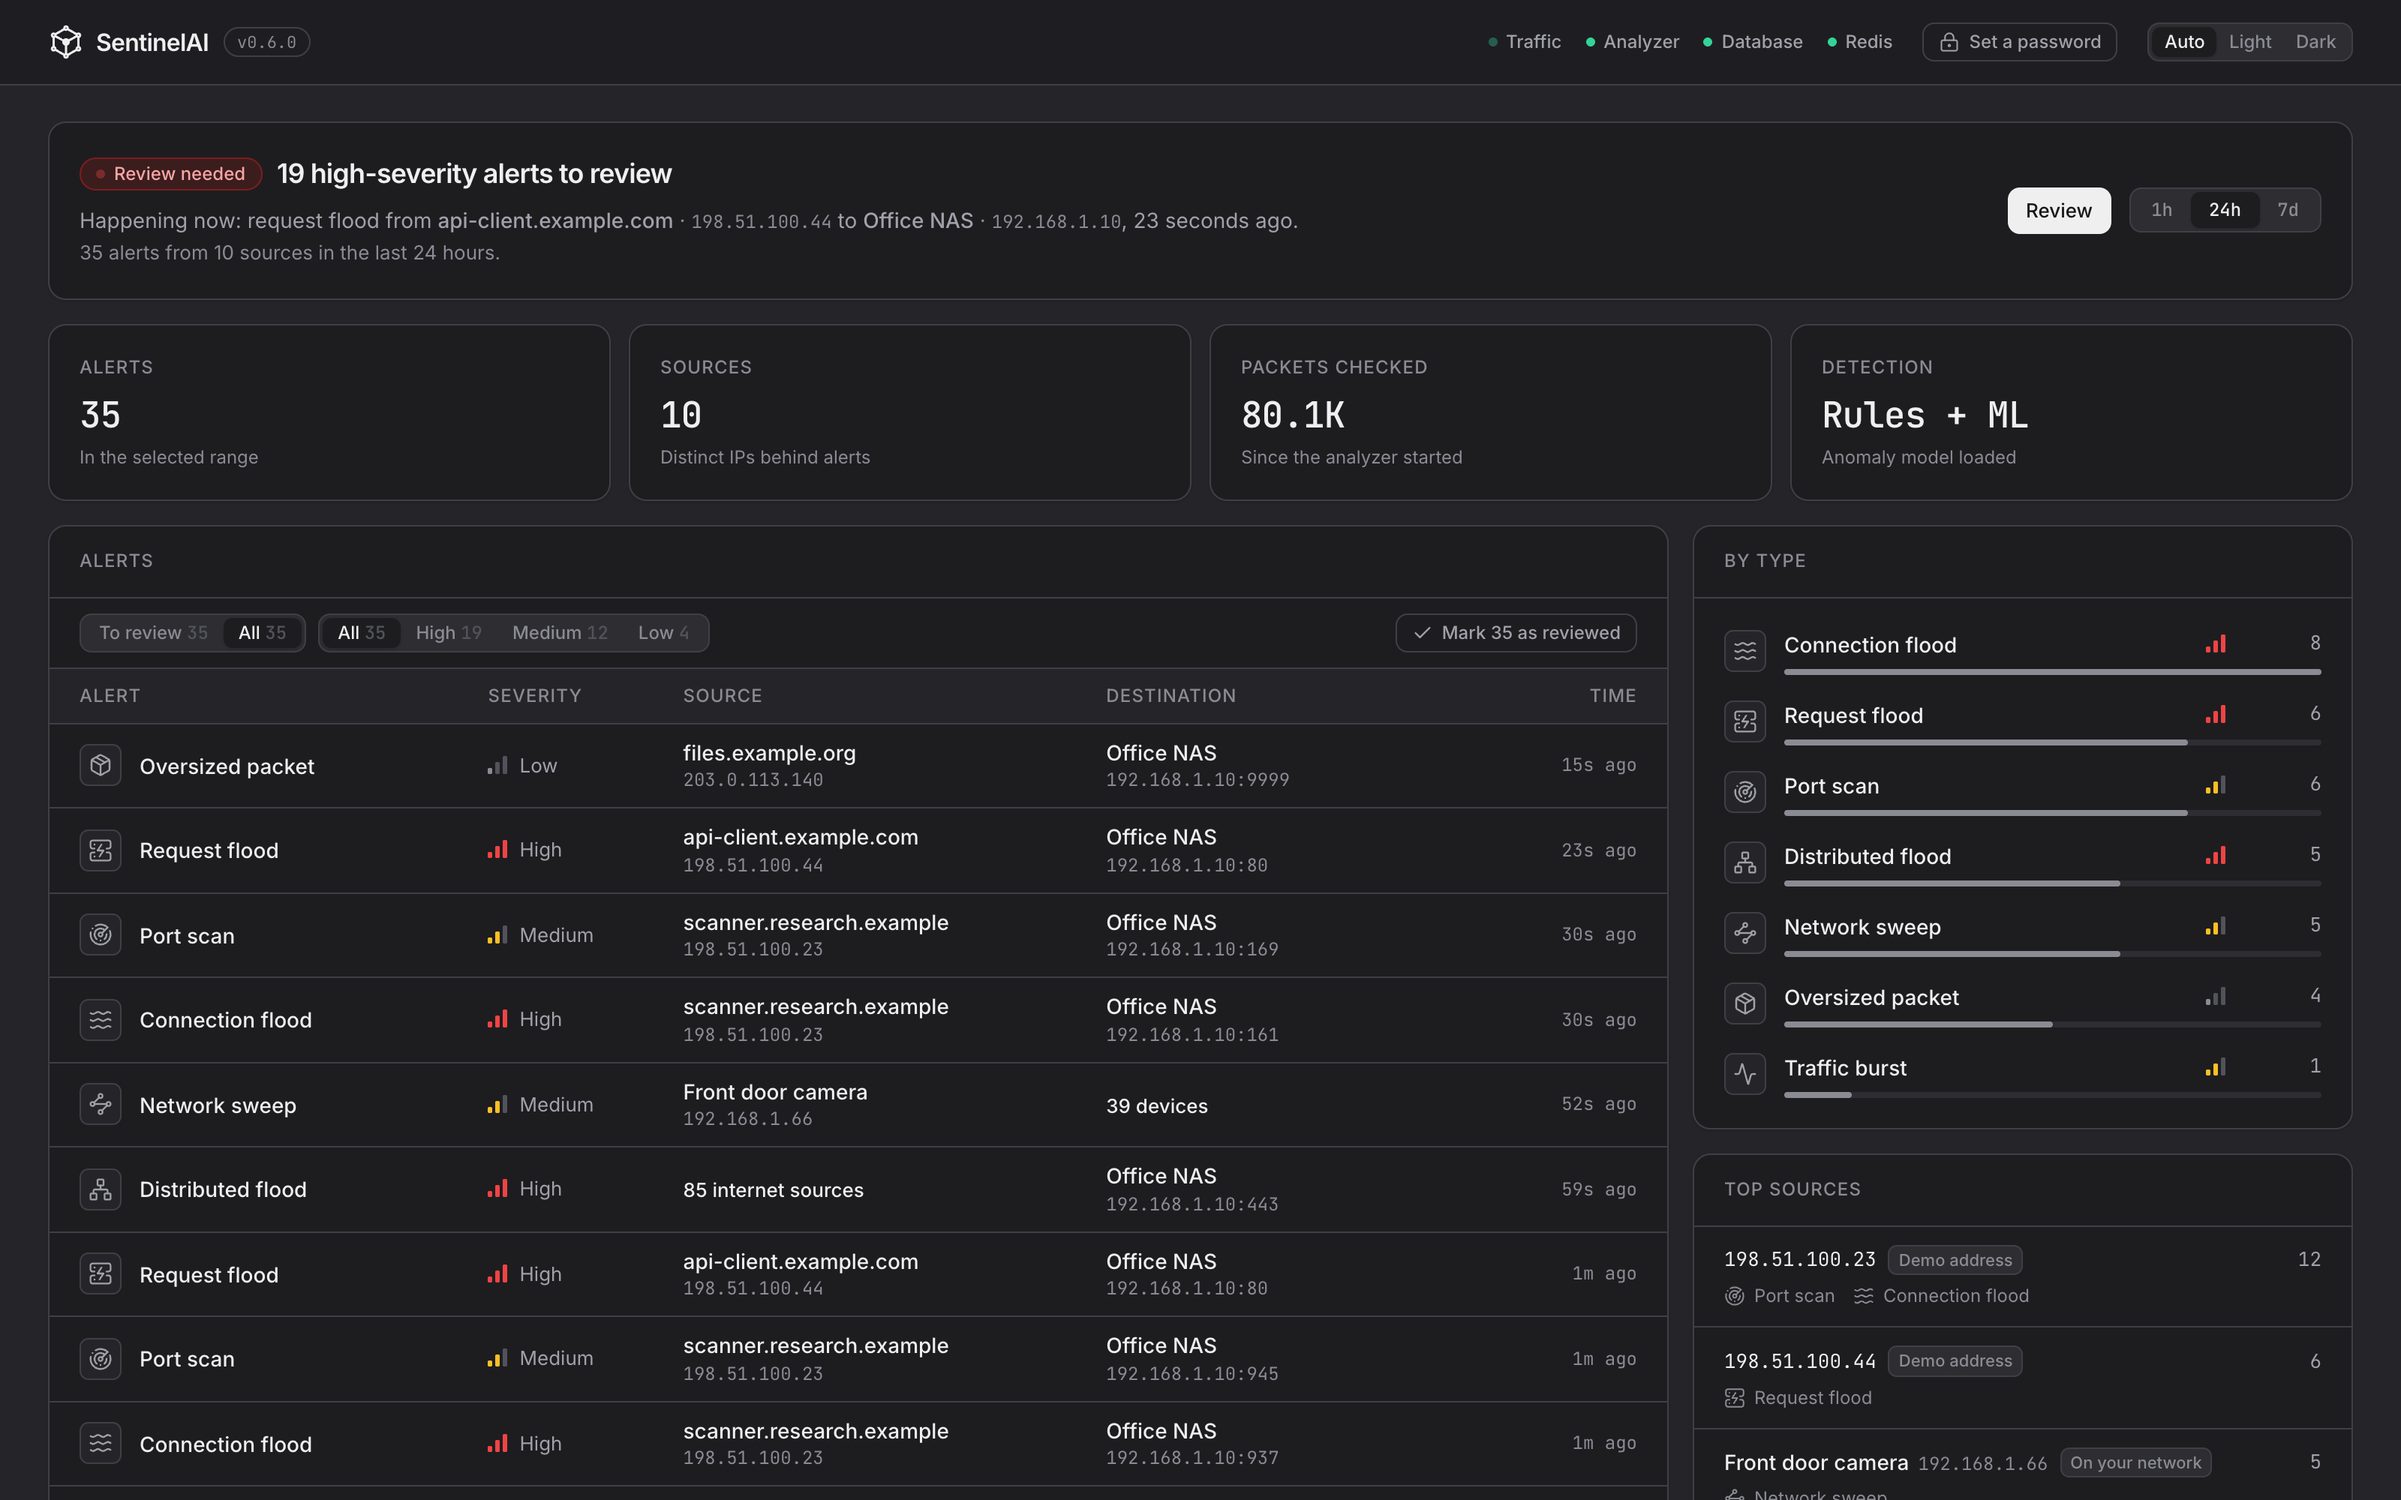
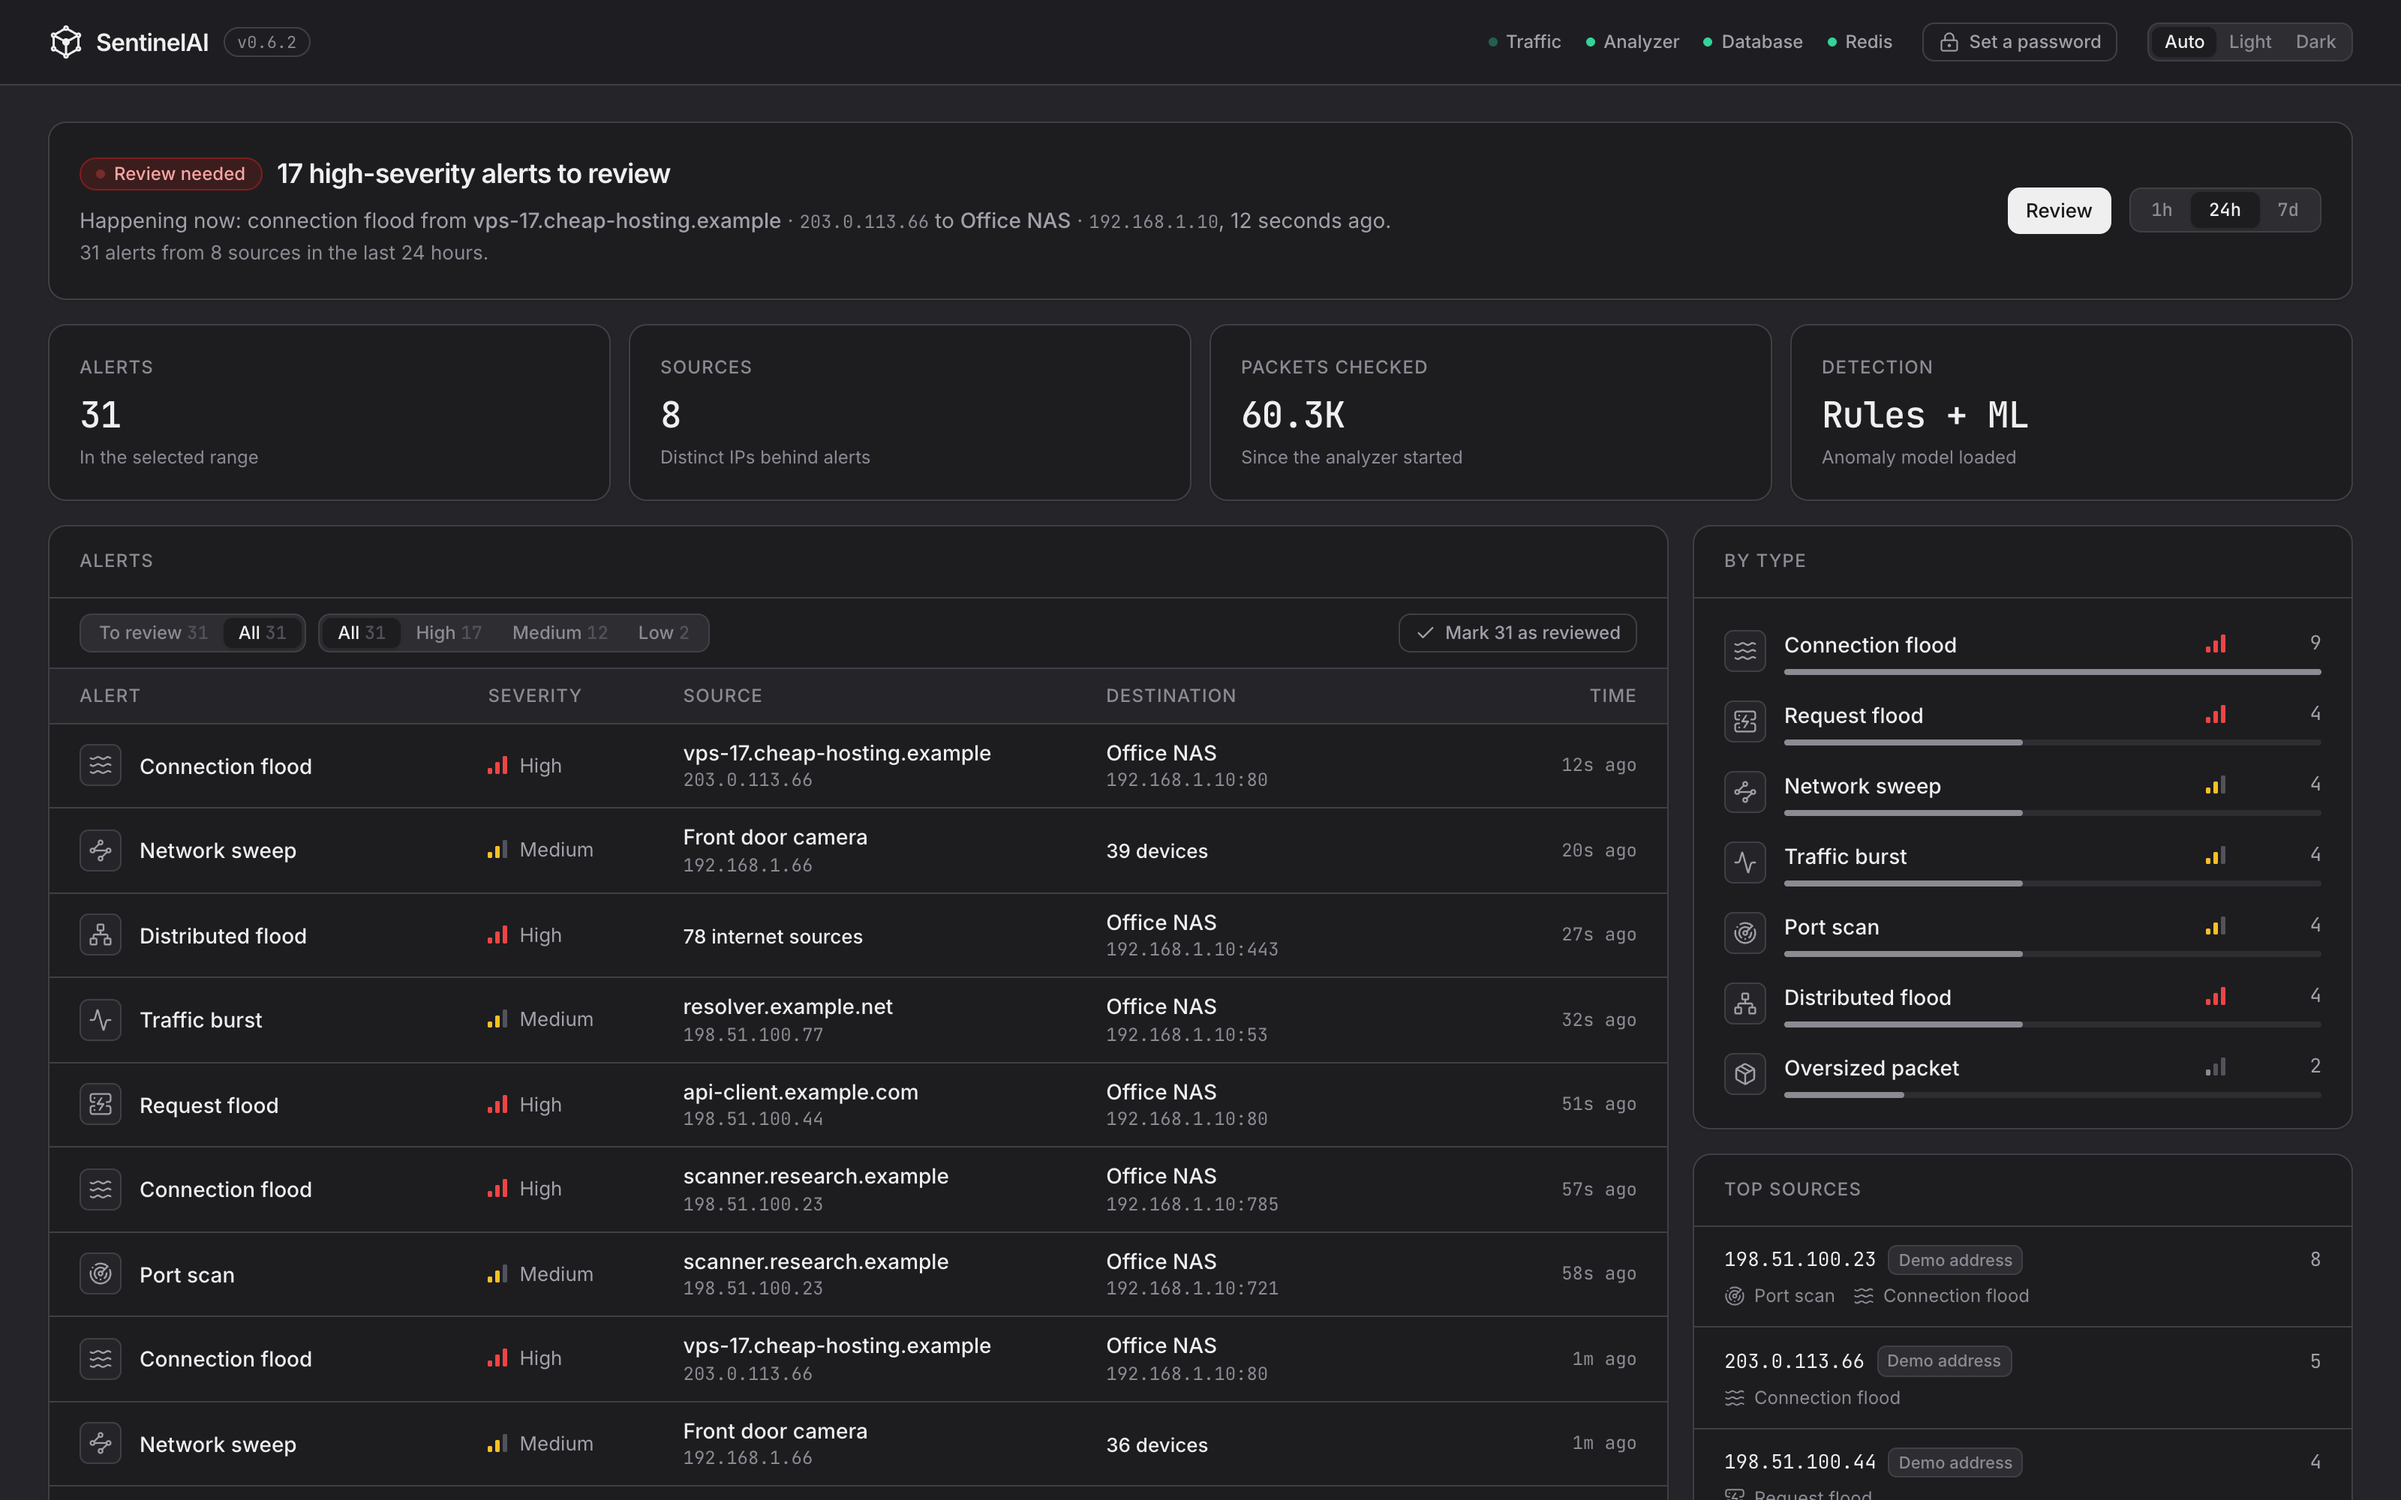
Release 0.6.2 (#25)

diff --git a/website/data/site.ts b/website/data/site.ts
@@ -12,7 +12,7 @@
 
 export const site = {
   name: "SentinelAI",
-  version: "0.6.1",
+  version: "0.6.2",
   repo: "https://github.com/smngvlkz/sentinel",
   evaluationDoc: "https://github.com/smngvlkz/sentinel/blob/master/docs/evaluation.md",
   roadmapDoc: "https://github.com/smngvlkz/sentinel/blob/master/docs/ROADMAP.md",
@@ -52,14 +52,14 @@ export const days: Day[] = [
     tag: "Thresholds tuned on this day",
     summary: "A port scan, an HTTP flood and a botnet, in 9.9 million packets.",
     rows: [
-      { attack: "Port scan", flows: "158,924", caught: "99.7%", minutes: "13 of 26" },
+      { attack: "Port scan", flows: "158,924", caught: "99.7%", minutes: "12 of 26" },
       { attack: "DDoS (HTTP flood)", flows: "128,027", caught: "99.9%", minutes: "21 of 21" },
       { attack: "Botnet (Ares)", flows: "1,966", caught: "23.9%", minutes: "387 of 592" },
     ],
     normal: [
-      { label: "Normal flows wrongly flagged, check-in rule aside", value: "22 of 380,557" },
+      { label: "Normal flows wrongly flagged, check-in rule aside", value: "0 of 380,557" },
       { label: "Flagged by the check-in rule (one polling server)", value: "1,441" },
-      { label: "Normal machines with a false alarm that day", value: "5 of 7" },
+      { label: "Normal machines with a false alarm that day", value: "1 of 7" },
     ],
   },
   {
@@ -75,9 +75,9 @@ export const days: Day[] = [
       { attack: "Heartbleed", flows: "11", caught: "0%", minutes: "0 of 21", missed: true },
     ],
     normal: [
-      { label: "Normal flows wrongly flagged, check-in rule aside", value: "20 of 432,832" },
+      { label: "Normal flows wrongly flagged, check-in rule aside", value: "0 of 432,832" },
       { label: "Flagged by the check-in rule (one polling server)", value: "1,486" },
-      { label: "Normal machines with a false alarm that day", value: "7 of 12" },
+      { label: "Normal machines with a false alarm that day", value: "0 of 11" },
     ],
   },
   {
@@ -87,20 +87,56 @@ export const days: Day[] = [
     summary: "Ordinary office traffic with no attacks, in 11.6 million packets.",
     rows: [],
     normal: [
-      { label: "Normal flows wrongly flagged, check-in rule aside", value: "41 of 529,442" },
+      { label: "Normal flows wrongly flagged, check-in rule aside", value: "0 of 529,442" },
       { label: "Flagged by the check-in rule (two workstations and one polling server)", value: "7,877" },
-      { label: "Normal machines with a false alarm that day", value: "9 of 13" },
+      { label: "Normal machines with a false alarm that day", value: "3 of 13" },
+    ],
+  },
+  {
+    id: "tuesday",
+    name: "Tuesday",
+    tag: "Held out, then used once to test a fix",
+    summary: "FTP and SSH password guessing, in 11.5 million packets. No version of SentinelAI has caught these: they aren't floods or scans, which is what its rules look for. Shown so you can see its limits.",
+    rows: [
+      { attack: "FTP password guessing", flows: "7,938", caught: "0%", minutes: "0 of 64", missed: true },
+      { attack: "SSH password guessing", flows: "5,897", caught: "0%", minutes: "0 of 63", missed: true },
+    ],
+    normal: [
+      { label: "Normal flows wrongly flagged, check-in rule aside (one alert)", value: "937 of 431,737" },
+      { label: "Flagged by the check-in rule (one polling server)", value: "1,650" },
+      { label: "Normal machines with a false alarm that day", value: "2 of 12" },
+    ],
+  },
+  {
+    id: "thursday",
+    name: "Thursday",
+    tag: "Held out, then used once to test a fix",
+    summary: "Web attacks and an infiltration, in 9.2 million packets. No version of SentinelAI has caught the web attacks: each is an ordinary-looking web request, and what makes it an attack (the passwords tried, the code slipped in) is inside the request, which it doesn't read. The infiltration shows up only through the infected machine scanning the network (below). Shown so you can see its limits.",
+    rows: [
+      { attack: "Web login brute force", flows: "1,507", caught: "0%", minutes: "0 of 44", missed: true },
+      { attack: "Cross-site scripting", flows: "652", caught: "0%", minutes: "0 of 21", missed: true },
+      { attack: "SQL injection", flows: "21", caught: "0%", minutes: "0 of 3", missed: true },
+      { attack: "Infiltration (as labelled)", flows: "36", caught: "0%", minutes: "0 of 53", missed: true },
+    ],
+    normal: [
+      { label: "Normal flows wrongly flagged, check-in rule aside (mostly the infected machine's scan)", value: "66,854 of 456,163" },
+      { label: "Flagged by the check-in rule (one polling server)", value: "1,644" },
+      { label: "Normal machines with a false alarm that day (every one scanned by the infected machine)", value: "10 of 11" },
+      { label: "…counting that documented scan as an attack (decided after seeing this result)", value: "1 of 11" },
     ],
   },
 ];
 
 export const resultsCaption =
-  "CIC-IDS2017, Canadian Institute for Cybersecurity. Friday's thresholds were partly tuned on the same day. Wednesday and Monday were held out: every threshold was frozen before they were replayed.";
+  "CIC-IDS2017, Canadian Institute for Cybersecurity. Friday's thresholds were partly tuned on the same day. Wednesday and Monday were held out: every threshold was frozen before they were replayed. Tuesday and Thursday were kept untouched to test the 0.6.2 connection-flood fix, which failed its target there (details in the evaluation). All five days are shown with 0.6.2's rules.";
 
 export const resultNotes: string[] = [
   "Botnet flow recall looks low because every check-in before the first alert counts as missed. All five infected machines were flagged, each about 45 minutes after it started.",
   "The check-in rule is noisy. It flagged a server that polls an internet service all day on every day tested, and on Monday also two workstations that kept reconnecting to dozens of web services for hours. Timing alone can't tell that apart from malware, and the rule hasn't been tuned to hide it. On a real laptop over 24 hours it flagged a code editor and the Claude apps 50 times, so it's off by default. These results were measured with it on.",
   "An earlier version of these results had a scoring bug, found by the held-out Wednesday test. The numbers here are the corrected ones.",
+  "Thursday's infiltration scores 0% because the dataset labels only 36 of its flows as attacks. SentinelAI did flag it: the infected machine scanning the whole network raised port-scan and connection-flood alerts on every machine it scanned. Those count as false alarms above, because the dataset labels the scan as normal.",
+  "Tuesday's password guessing and Thursday's web attacks aren't caught by any rule: repeated logins look like normal connections, and web attacks live in page contents, which SentinelAI doesn't read.",
+  "In 0.6.2, browsers opening many connections at once and quick bursts of lookups to an office server stopped raising false alarms, and floods that repeat after a pause stopped being missed. Every number on these tabs is measured with those rules. Normal machines are counted on each day leaving out every machine involved in a labelled attack.",
 ];
 
 export type FeatureIcon = "radar" | "message" | "tag" | "check" | "shuffle" | "gauge" | "lock" | "play";
@@ -210,8 +246,8 @@ export const limits: Limit[] = [
     body: "Packet capture runs in Python. Its speed on a Raspberry Pi hasn't been measured yet, and on a saturated link it may miss packets.",
   },
   {
-    title: "It misses slow attacks and anything inside the payload",
-    body: "Slowloris sends almost no traffic, by design, and was missed completely. Heartbleed lives inside encrypted traffic, which SentinelAI doesn't read. Both were 0% in testing.",
+    title: "It misses slow attacks, password guessing and anything inside the payload",
+    body: "Slowloris sends almost no traffic, by design, and was missed completely. Password guessing over FTP and SSH looks like ordinary logins. Heartbleed and web attacks such as SQL injection live inside the traffic's contents, which SentinelAI doesn't read. All were 0% in testing.",
   },
   {
     title: "It detects, it doesn't block",

diff --git a/website/components/ResultsSection.vue b/website/components/ResultsSection.vue
@@ -21,7 +21,7 @@ function onKey(e: KeyboardEvent, i: number) {
         <SectionHeading
           eyebrow="Real numbers, real traffic"
           :title="'Tested on public data.\nMisses included.'"
-          :lead="`Three full days of ${dataset.name} replayed through the real detection pipeline. Each labelled flow counts as caught only if SentinelAI alerted on that connection while it was happening.`"
+          :lead="`Five full days of ${dataset.name} replayed through the real detection pipeline. Each labelled flow counts as caught only if SentinelAI alerted on that connection while it was happening.`"
         />
 
         <div class="lift mt-12 flex rounded-lg border border-line bg-bg p-0.5 text-body sm:inline-flex" role="tablist" aria-label="Test day">
@@ -32,14 +32,18 @@ function onKey(e: KeyboardEvent, i: number) {
             ref="tabs"
             type="button"
             role="tab"
-            class="flex-1 rounded-md px-4 py-1.5 font-medium transition"
+            class="flex-1 rounded-md px-2 py-1.5 font-medium transition sm:px-4"
             :class="active === d.id ? 'bg-bg-3 text-fg' : 'text-fg-3 hover:text-fg'"
             :aria-selected="active === d.id"
             :aria-controls="`panel-${d.id}`"
             :tabindex="active === d.id ? 0 : -1"
             @click="active = d.id"
             @keydown="onKey($event, i)"
-          >{{ d.name }}</button>
+          >
+            <!-- Five days don't fit a phone's width by name; "Wed" does. -->
+            <span class="sm:hidden" aria-hidden="true">{{ d.name.slice(0, 3) }}</span>
+            <span class="max-sm:sr-only">{{ d.name }}</span>
+          </button>
         </div>
 
         <article

diff --git a/dashboard-api/main.py b/dashboard-api/main.py
@@ -34,7 +34,7 @@ load_dotenv()
 
 log = logging.getLogger(__name__)
 
-VERSION = "0.6.1"
+VERSION = "0.6.2"
 
 STREAM_NAME = "packet_stream"
 HEARTBEAT_KEY = "sentinel:analyzer:heartbeat"

diff --git a/docs/evaluation.md b/docs/evaluation.md
@@ -330,6 +330,17 @@ rule off), old rules against 0.6.2's:
 Tuesday's one is the request-flood alert above. Thursday's are the infected
 machine scanning the network, labelled normal in the dataset.
 
+**On the website, with the check-in rule on** (the basis of its published
+figures): normal machines with a false alarm are 1 of 7 on Friday (the
+polling server), 0 of 11 on Wednesday, 3 of 13 on Monday (the three the
+check-in rule flags), 2 of 12 on Tuesday and 10 of 11 on Thursday. Every one of Thursday's ten was
+scanned by the infected machine; counting that documented scan as an attack,
+a reading made after seeing the result, leaves 1 of 11 (the polling server). The old
+rules give 5 of 7 and 9 of 13 counted the same way, matching the published
+figures. "Normal machines" leaves out every machine involved in a labelled
+attack that day; on Wednesday that now includes the Heartbleed target,
+`192.168.10.51`, which the earlier figure (7 of 12) counted as normal.
+
 **Per labelled flow**, normal flows wrongly flagged by any rule except the
 check-in rule: Friday 22 → 0, Wednesday 20 → 0, Monday 41 → 0, Tuesday 964
 → 937 (all from that one request-flood alert). Detection of every attack

diff --git a/CHANGELOG.md b/CHANGELOG.md
@@ -6,6 +6,8 @@ uses [Semantic Versioning](https://semver.org/).
 
 ## [Unreleased]
 
+## [0.6.2] - 2026-10-05
+
 ### Fixed
 
 - Far fewer false connection-flood alerts. The rule fired when a browser
@@ -361,7 +363,8 @@ First public release.
 - Evaluation against CIC-IDS2017, with results in
   [docs/evaluation.md](docs/evaluation.md).
 
-[Unreleased]: https://github.com/smngvlkz/sentinel/compare/v0.6.1...HEAD
+[Unreleased]: https://github.com/smngvlkz/sentinel/compare/v0.6.2...HEAD
+[0.6.2]: https://github.com/smngvlkz/sentinel/compare/v0.6.1...v0.6.2
 [0.6.1]: https://github.com/smngvlkz/sentinel/compare/v0.6.0...v0.6.1
 [0.6.0]: https://github.com/smngvlkz/sentinel/compare/v0.5.0...v0.6.0
 [0.5.0]: https://github.com/smngvlkz/sentinel/compare/v0.4.0...v0.5.0
